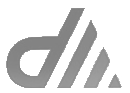
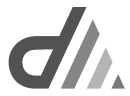
Updates 15 Nov

diff --git a/singnatures/bongiwe_signature.html b/singnatures/bongiwe_signature.html
@@ -20,7 +20,10 @@
                         <p><img style="width: 100px;" src="https://distinctiveaccounting.com/images/bongiwe_signature_image.png"></p>
                     </td>
                     <td><span
-                            style="font-family: Calibri, sans-serif; font-size: 18px; margin-bottom: 0px; margin-top: 0px; color: rgb(6, 20, 68);">Bongiwe Maqolo</span><br><span
+                            style="font-family: Calibri, sans-serif; font-size: 18px; margin-bottom: 0px; margin-top: 0px; color: rgb(6, 20, 68);">Bongiwe Maqolo</span>
+                            <br> <span
+                            style="font-family: Calibri, sans-serif; font-size: 13px; line-height: 20px; color: #000; font-weight: bold;">
+                        Junior Accountant</span><br><span
                             style="font-family: Calibri, sans-serif; font-size: 13px; line-height: 20px; color: #000;">Tel
                             +27 28 125 0226 Ext 3002 &nbsp;</span>
                             <br>
@@ -35,13 +38,13 @@
             <tbody>
                 <tr>
                     <td style="padding-left: 7px;"><a href="https://distinctiveaccounting.com/" target="_blank"
-                            rel="noopener"><img width="30"
-                                src="https://distinctiveaccounting.com/images/logo.png"
+                            rel="noopener"><img width="30" src="https://distinctiveaccounting.com/images/logo.png"
                                 alt="banner"></a></td>
                     <td style="padding-left: 7px;"><span
-                        style="font-family: Cormorant Garamond; font-size: 20px; line-height: 20px; color: rgb(6, 20, 68);">DISTINCTIVE</span>
+                            style="font-family: Cormorant Garamond; font-size: 20px; line-height: 20px; color: rgb(10, 21, 35);">DISTINCTIVE</span>
                         <span
-                        style="font-family: Cormorant Garamond; font-size: 20px; line-height: 20px; color: rgb(112, 69, 69);">ACCOUNTING</span></td>
+                            style="font-family: Cormorant Garamond; font-size: 20px; line-height: 20px; color: rgb(69, 11, 13);">ACCOUNTING</span>
+                    </td>
                 </tr>
             </tbody>
         </table><span style="padding-left: 7px;color: rgb(0, 51, 102); font-family: EB Garamond, sans-serif; font-size: 11px;">Marine Square, FinGlobal Building,

diff --git a/singnatures/curtley_signature.html b/singnatures/curtley_signature.html
@@ -20,7 +20,9 @@
                         <p><img style="width: 100px;" src="https://distinctiveaccounting.com/images/curtley_signature_image.png"></p>
                     </td>
                     <td><span
-                            style="font-family: Calibri, sans-serif; font-size: 18px; margin-bottom: 0px; margin-top: 0px; color: rgb(6, 20, 68);">Curtley Deelman</span><br><span
+                            style="font-family: Calibri, sans-serif; font-size: 18px; margin-bottom: 0px; margin-top: 0px; color: rgb(6, 20, 68);">Curtley Deelman</span>
+                            <br><span
+                            style="font-family: Calibri, sans-serif; font-size: 13px; line-height: 20px; color: #000; font-weight: bold;">Professional Accountant (SA)<br>Professional Tax Practitioner (SA)</span><br><span
                             style="font-family: Calibri, sans-serif; font-size: 13px; line-height: 20px; color: #000;">Tel
                             +27 28 125 0226 Ext 3001 &nbsp;</span>
                             <br>
@@ -39,9 +41,9 @@
                                 src="https://distinctiveaccounting.com/images/logo.png"
                                 alt="banner"></a></td>
                     <td style="padding-left: 7px;"><span
-                        style="font-family: Cormorant Garamond; font-size: 20px; line-height: 20px; color: rgb(6, 20, 68);">DISTINCTIVE</span>
+                        style="font-family: Cormorant Garamond; font-size: 20px; line-height: 20px; color: rgb(10, 21, 35);">DISTINCTIVE</span>
                         <span
-                        style="font-family: Cormorant Garamond; font-size: 20px; line-height: 20px; color: rgb(112, 69, 69);">ACCOUNTING</span></td>
+                        style="font-family: Cormorant Garamond; font-size: 20px; line-height: 20px; color: rgb(69, 11, 13);">ACCOUNTING</span></td>
                 </tr>
             </tbody>
         </table><span style="padding-left: 7px;color: rgb(0, 51, 102); font-family: EB Garamond, sans-serif; font-size: 11px;">Marine Square, FinGlobal Building,
